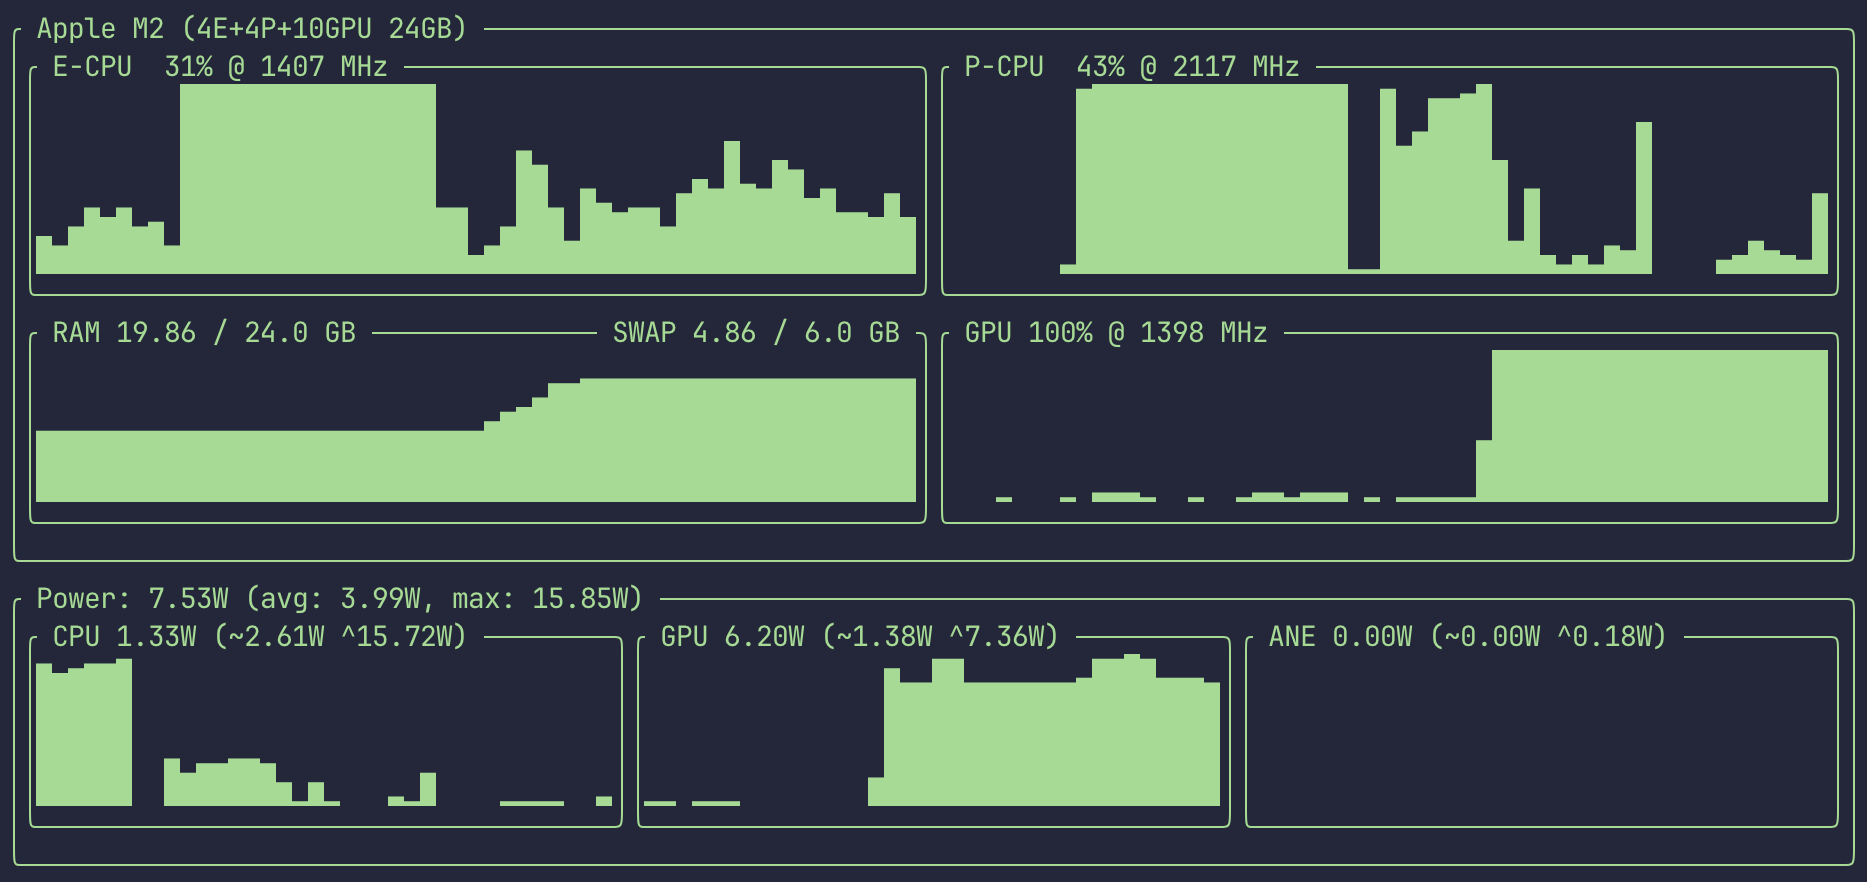
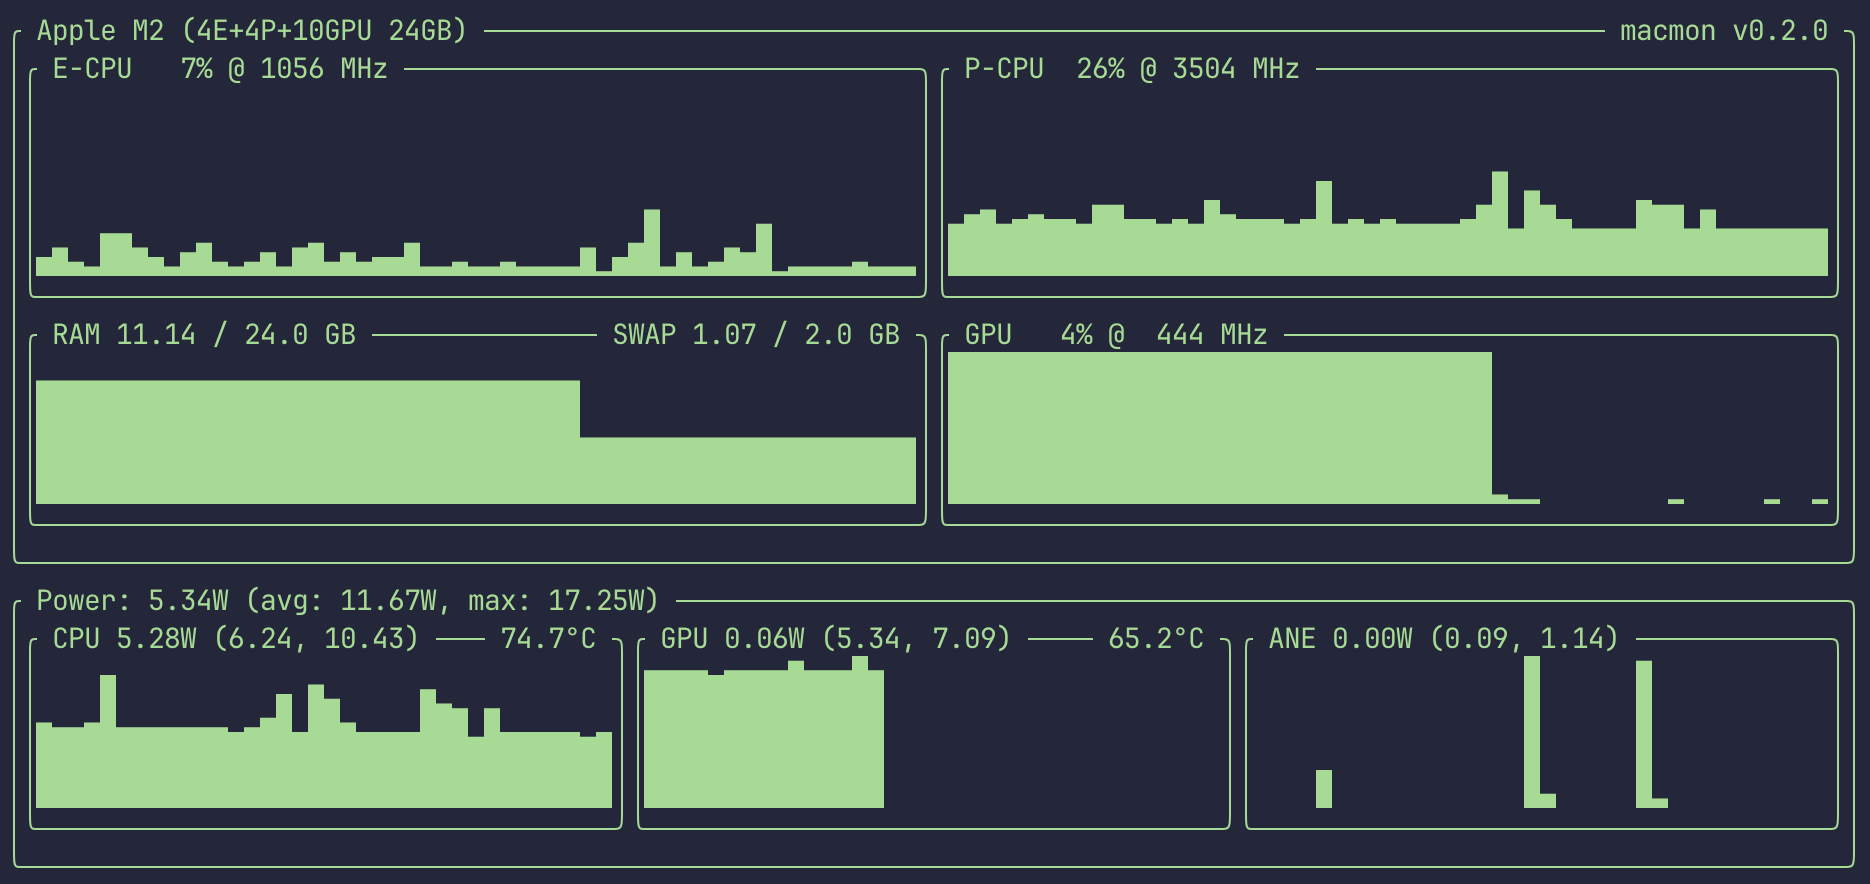
v0.2.0

diff --git a/readme.md b/readme.md
@@ -1,4 +1,8 @@
-# macmon – Mac Monitor
+# `macmon` – Mac Monitor
+
+[<img src="https://badgen.net/github/release/vladkens/macmon" alt="version" />](https://github.com/vladkens/macmon/releases)
+[<img src="https://badgen.net/github/license/vladkens/macmon" alt="license" />](https://github.com/vladkens/macmon/blob/main/LICENSE)
+[<img src="https://badgen.net/static/-/buy%20me%20a%20coffee/ff813f?icon=buymeacoffee&label" alt="donate" />](https://buymeacoffee.com/vladkens)
 
 <div align="center">
   <img src=".github/macmon.png" alt="macmon preview" />
@@ -17,6 +21,8 @@ Apple Silicon processors don't provide an easy way to see live power consumption
 - 📊 CPU utilization per cluster
 - 💾 RAM / Swap usage
 - 📈 Historical charts + avg / max values
+- 🌡 Average CPU / GPU temperature
+- 🎨 Switchable colors (6 variants)
 - 🪟 Can be rendered in a small window
 - 🦀 Written in Rust
 
@@ -51,13 +57,20 @@ sudo cp target/release/macmon /usr/local/bin
 ## 🚀 Usage
 
 ```sh
-Usage: macmon [OPTIONS]
+Usage: macmon [OPTIONS] [COMMAND]
+
+Commands:
+  raw   Print raw metrics data instead of TUI
+  help  Print this message or the help of the given subcommand(s)
 
 Options:
   -i, --interval <INTERVAL>  Update interval in milliseconds [default: 1000]
-      --raw                  Print raw data instead of TUI
   -h, --help                 Print help
   -V, --version              Print version
+
+Controls:
+  c - change color
+  q - quit
 ```
 
 ## 🤝 Contributing
